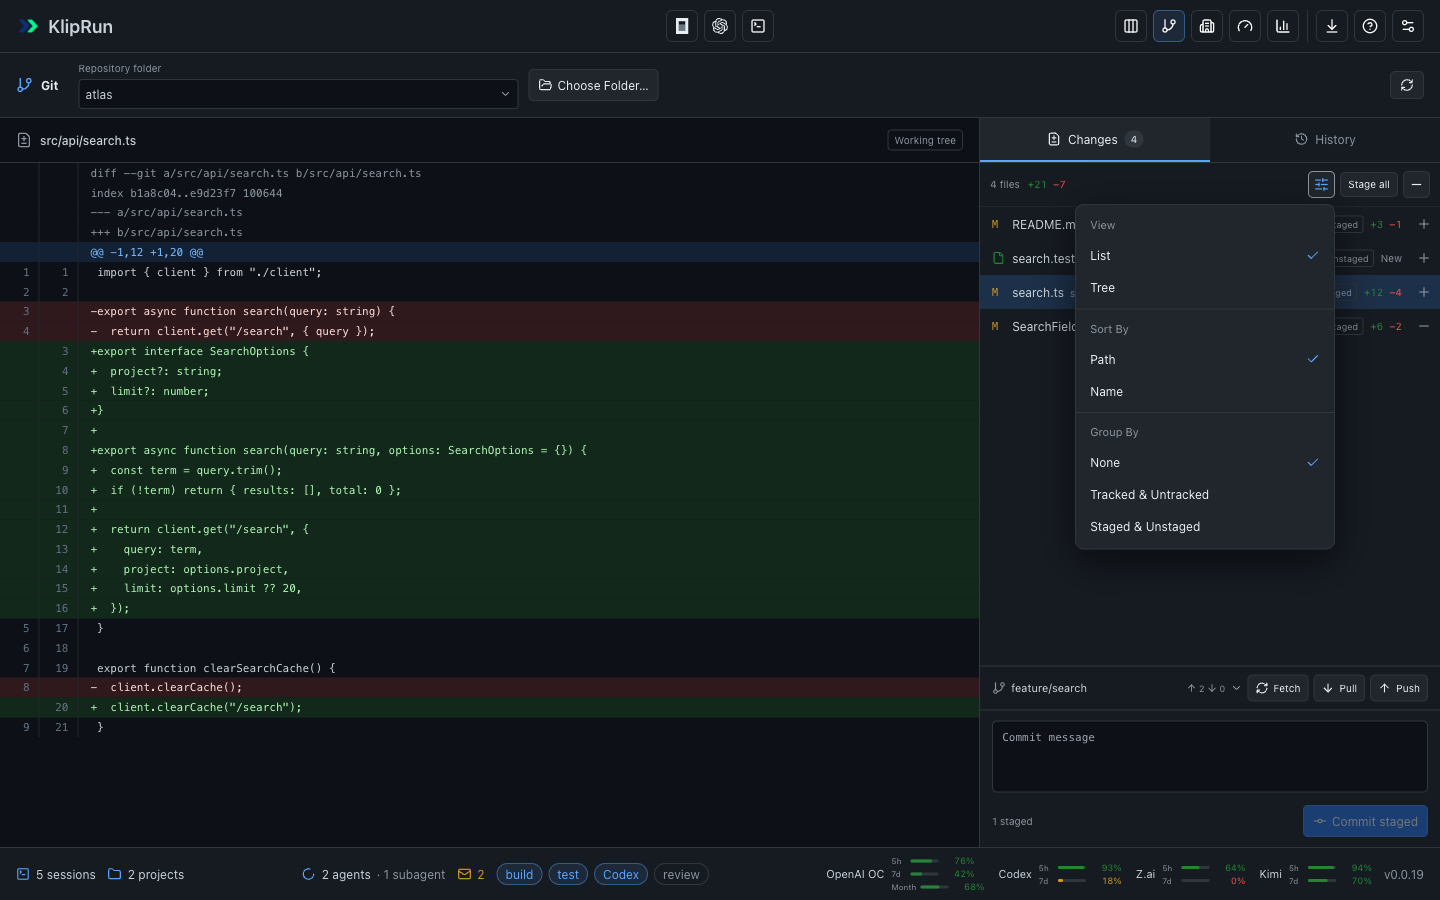
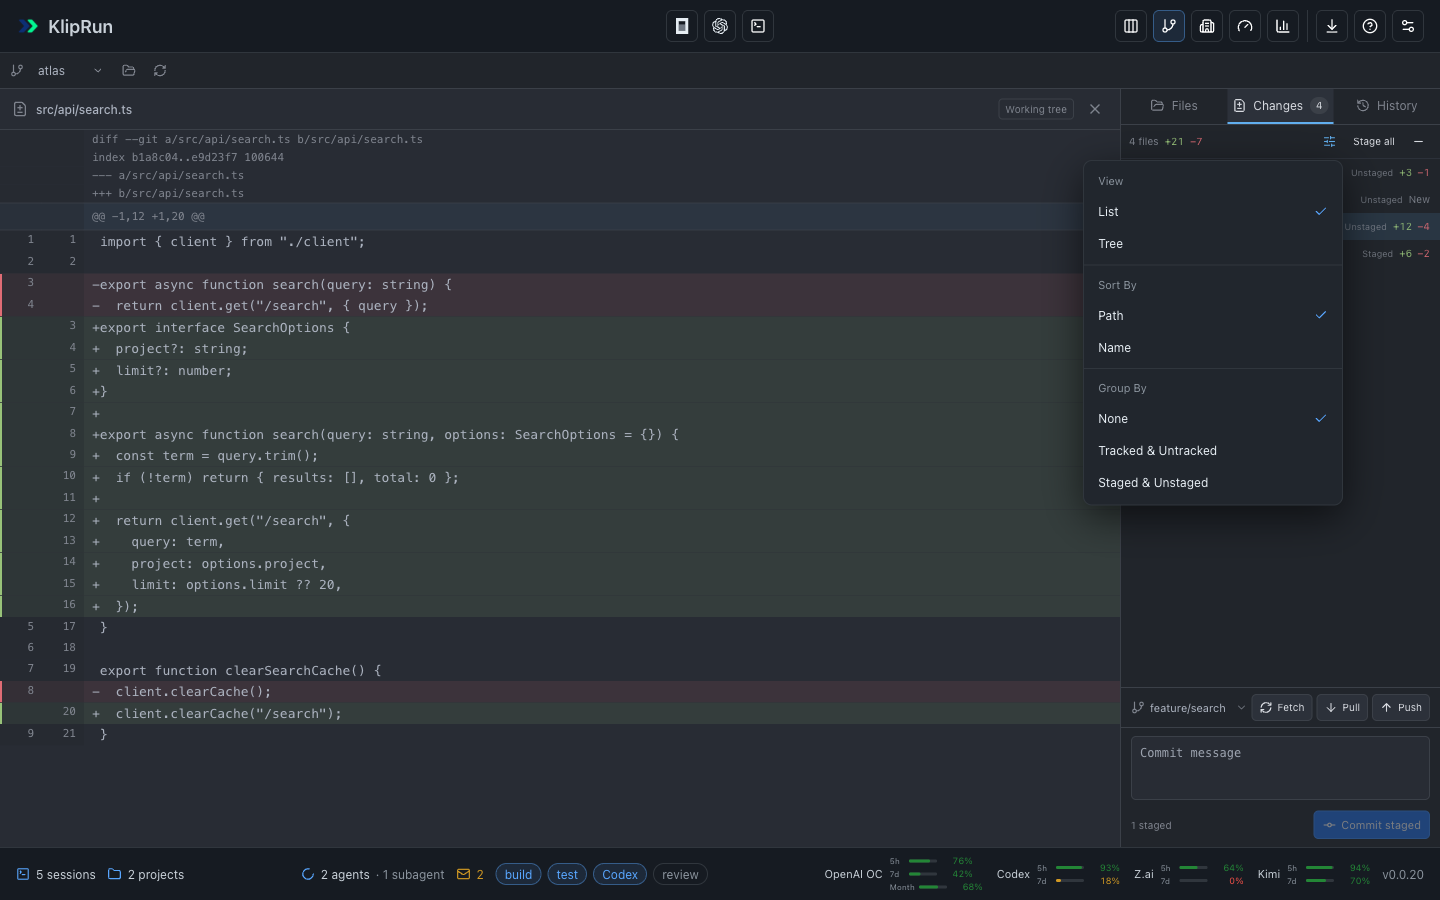
release/0.0.20: Подготовить выпуск и обновить скриншоты

diff --git a/docs/screenshots/capture-files.js b/docs/screenshots/capture-files.js
@@ -1,0 +1,33 @@
+// Playwright callback: pass parsed mock-api.json as the third argument. No real file API is used.
+async (page, directory = "docs/screenshots", fixture) => {
+  const base = "http://127.0.0.1:18796", root = fixture.git.status.root;
+  const external = [];
+  const watch = request => { if (!request.url().startsWith(`${base}/`)) external.push(request.url()); };
+  const list = route => route.fulfill({ json: { root, files: Object.keys(fixture.git.text_files), truncated: false } });
+  const read = route => {
+    const path = decodeURIComponent(route.request().url().match(/[?&]path=([^&]*)/)[1].replace(/\+/g, " "));
+    return route.fulfill({ json: { root, path, content: fixture.git.text_files[path], revision: "fixture" } });
+  };
+  page.on("request", watch);
+  await page.route(`${base}/api/git/files?*`, list);
+  await page.route(`${base}/api/git/file?*`, read);
+  try {
+    await page.setViewportSize({ width: 1440, height: 900 }); await page.goto(`${base}/git`);
+    await page.evaluate(() => localStorage.removeItem("kliprun.git.sidebar-width")); await page.reload();
+    await page.getByRole("button", { name: "Repository", exact: true }).click();
+    await page.getByRole("option").filter({ hasText: root }).click();
+    await page.getByRole("tab", { name: "Files", exact: true }).click();
+    for (const path of ["README.md", "queries/projects.sql"]) await page.getByRole("treeitem", { name: `Open file ${path}`, exact: true }).dblclick();
+    await page.getByRole("treeitem", { name: "Open file src/search.py", exact: true }).click();
+    await page.getByRole("textbox", { name: "Edit src/search.py", exact: true }).waitFor();
+    await page.screenshot({ path: `${directory}/git-files.png`, animations: "disabled" });
+    await page.getByRole("tab", { name: "README.md", exact: true }).click();
+    await page.locator('button[aria-label="Preview Markdown"]:visible').click();
+    await page.getByRole("heading", { name: "Atlas search", exact: true }).waitFor();
+    await page.screenshot({ path: `${directory}/git-markdown.png`, animations: "disabled" });
+    if (external.length) throw new Error("Capture made external requests");
+    return { captures: ["git-files.png", "git-markdown.png"], externalRequests: 0 };
+  } finally {
+    page.off("request", watch); await page.unroute(`${base}/api/git/files?*`, list); await page.unroute(`${base}/api/git/file?*`, read);
+  }
+}

diff --git a/docs/screenshots/capture-all.js b/docs/screenshots/capture-all.js
@@ -10,7 +10,7 @@ async (page, directory = "docs/screenshots") => {
     await page.goto(`${base}${path}`);
     if (!path.startsWith("/__demo/")) {
       await page.locator('[data-testid="version"]').waitFor();
-      if ((await page.locator('[data-testid="version"]').innerText()) !== "v0.0.19") throw new Error("Build the 0.0.19 client before capturing.");
+      if ((await page.locator('[data-testid="version"]').innerText()) !== "v0.0.20") throw new Error("Build the 0.0.20 client before capturing.");
     }
   }
   async function sidebar(expanded) {

diff --git a/engine/src/client/src/__tests__/repositoryFileEditor.test.tsx b/engine/src/client/src/__tests__/repositoryFileEditor.test.tsx
@@ -88,4 +88,3 @@ test("editor shows file breadcrumbs and current language, encoding, indentation 
   expect(html).toContain('Spaces: 2');
   expect(html).toContain('SQL');
 });
-

diff --git a/docs/screenshots/README.md b/docs/screenshots/README.md
@@ -1,6 +1,6 @@
 # Demo screenshots
 
-All fourteen images were captured from **KlipRun Desktop 0.0.19** on **2026-10-17**. Session IDs, titles, project paths, models, priority flags, Git metadata, quotas, and usage totals come only from [`mock-api.json`](mock-api.json). The preview fixes the clock to the fixture’s `board.generated_at` (2026-10-14), supplies a stub desktop bridge, and disables Office motion. No live engine, user session store, credentials, quota API, or agent process is used.
+All sixteen images were captured from **KlipRun Desktop 0.0.20** on **2026-10-17**. Session IDs, titles, project paths, models, priority flags, Git metadata, quotas, and usage totals come only from [`mock-api.json`](mock-api.json). The preview fixes the clock to the fixture’s `board.generated_at` (2026-10-14), supplies a stub desktop bridge, and disables Office motion. No live engine, user session store, credentials, quota API, or agent process is used.
 
 | File | Size | Example shown |
 | --- | --- | --- |
@@ -12,6 +12,8 @@ All fourteen images were captured from **KlipRun Desktop 0.0.19** on **2026-10-1
 | [`statistics.png`](statistics.png) | 1600 × 1600 | Last 30 days, latest sessions, Daily token activity, and composition in UTC |
 | [`statistics-weekly.png`](statistics-weekly.png) | 1600 × 1600 | Weekly token activity for the same fictional dataset |
 | [`usage.png`](usage.png) | 1600 × 900 | Compact provider rows with colored status dots and white limit/reset labels |
+| [`git-files.png`](git-files.png) | 1440 × 900 | Repository tree on the right, preview/permanent file tabs and highlighted Python source |
+| [`git-markdown.png`](git-markdown.png) | 1440 × 900 | Rendered Markdown with source/preview toggle and per-file editor status |
 | [`git-changes.png`](git-changes.png) | 1440 × 900 | Fictional changes in List/Path/None mode, staging controls, and a line-numbered diff |
 | [`git-repository.png`](git-repository.png) | 1440 × 900 | Searchable repository dropdown with fictional project names and paths |
 | [`git-changes-settings.png`](git-changes-settings.png) | 1440 × 900 | Changes settings menu with List/Tree, Path/Name, and three grouping choices |
@@ -35,8 +37,14 @@ Build the client with `cd engine/src/client && bun run build`, then start `bun d
 
 `desktop-terminal.png` combines the current `kanban-details.png` capture with [`terminal-demo.html`](terminal-demo.html), available at `/__demo/terminal-demo.html`. The terminal transcript and tabs are static fictional content with white tab labels; this composition never launches an agent or captures a real terminal.
 
-The `git` fixture supplies repository roots, status, history, commit files, and diff patches for `/api/git/*`. The preview rejects Git actions and never invokes Git or accesses working repositories. [`capture-git.js`](capture-git.js) captures Changes, its display-settings menu, the branch popover, History, and shortcuts. The `git.status.branches` fixture includes only fictional author, date, and last-commit metadata. [`../../scripts/git-workspace.test.js`](../../scripts/git-workspace.test.js) covers direct commit submission, message-field scrolling, the UI workflow, and normal/small layouts with in-memory responses based on the same fixture; [`../../scripts/git-panel-resize.test.js`](../../scripts/git-panel-resize.test.js) covers panel resizing. [`../../scripts/git-session-follow.test.js`](../../scripts/git-session-follow.test.js) covers session-driven repository selection, sessions without Git, per-repository drafts, nested folders, and switching sessions during a commit. [`../../scripts/git-changes-settings.test.js`](../../scripts/git-changes-settings.test.js) covers display settings, partial staging, saved options, keyboard navigation, and popup placement. These tests use fixture responses without modifying repositories.
+The `git` fixture supplies repository roots, status, history, commit files, source text, and diff patches for `/api/git/*`. The preview rejects Git actions and never invokes Git or accesses working repositories. [`capture-git.js`](capture-git.js) captures Changes, its display-settings menu, the branch popover, History, and shortcuts. The `git.status.branches` fixture includes only fictional author, date, and last-commit metadata. [`../../scripts/git-workspace.test.js`](../../scripts/git-workspace.test.js) covers direct commit submission, message-field scrolling, the UI workflow, and normal/small layouts with in-memory responses based on the same fixture; [`../../scripts/git-panel-resize.test.js`](../../scripts/git-panel-resize.test.js) covers panel resizing. [`../../scripts/git-session-follow.test.js`](../../scripts/git-session-follow.test.js) covers session-driven repository selection, sessions without Git, per-repository drafts, nested folders, and switching sessions during a commit. [`../../scripts/git-changes-settings.test.js`](../../scripts/git-changes-settings.test.js) covers display settings, partial staging, saved options, keyboard navigation, and popup placement. These tests use fixture responses without modifying repositories.
+
+`git.text_files` supplies fictional Python, SQL, Markdown, and TypeScript source for the Files tab. The preview serves `/api/git/files` and reads from `/api/git/file`; save requests are rejected. [`../../scripts/git-files.test.js`](../../scripts/git-files.test.js) is a Playwright callback `(page, fixture)` taking the parsed `mock-api.json`. It intercepts file requests and keeps simulated saves in memory, checking the right-hand project tree and its filter/keyboard controls, preview and permanent tabs, CodeMirror indentation/search/undo across tabs, save/close/cancel, Markdown preview, save conflicts, delayed responses, inactive drafts on repository changes, and normal/small windows.
 
 The toolbar follows **Kanban → Git → Office → Usage → Statistics**, with a separate **Check for Updates → Keyboard shortcuts → Settings** utility group. Shortcuts use Control+1 Kanban, Control+2 Git, Control+3 Office, Control+4 Usage, and Control+5 Statistics. Both capture callbacks made **zero external requests**.
 
 The Office image now shows the Shared loft floor plan with the same fictional sessions. [`../../scripts/office.test.js`](../../scripts/office.test.js) checks all three floor plans, persistent settings, new and removed helpers, observed-state transitions and idle grace, selection, active-terminal highlighting, usage, zoom, and reduced motion in normal and constrained web-view sizes.
+
+[`../../scripts/git-review-layout.test.js`](../../scripts/git-review-layout.test.js) checks the compact repository toolbar, staging controls before filenames, loaded-commit search, keyboard navigation, automatic first-file diffs, persistent close, and small layouts using fixture data without Git writes.
+
+[`capture-files.js`](capture-files.js) takes `(page, outputDirectory, fixture)` and captures Files and Markdown from `git.text_files` in `mock-api.json`, with all file reads intercepted and no writes. All sixteen images were refreshed for 0.0.20.

diff --git a/README.md b/README.md
@@ -1,10 +1,12 @@
 # KlipRun Desktop
 
-A macOS app for OpenCode and Codex sessions: a Kanban board, embedded terminals, Git diffs, searchable session history, and usage statistics.
+A macOS app for OpenCode and Codex sessions: a Kanban board, embedded terminals, repository file editing and Git diffs, searchable session history, and usage statistics.
 
 ## Screenshots
 
 ![Kanban, Recent Sessions, and session details](docs/screenshots/recent-sessions.png)
+
+![Repository files and code editor](docs/screenshots/git-files.png)
 
 ![Git changes and diff](docs/screenshots/git-changes.png)
 
@@ -16,7 +18,7 @@ A macOS app for OpenCode and Codex sessions: a Kanban board, embedded terminals,
 
 Requires **Apple Silicon and macOS 13+**.
 
-1. Download `KlipRun-0.0.19-macos-arm64.zip` from the [latest release](https://github.com/klipbn/kliprun_desktop/releases/latest).
+1. Download `KlipRun-0.0.20-macos-arm64.zip` from the [latest release](https://github.com/klipbn/kliprun_desktop/releases/latest).
 2. Unzip and move `KlipRun.app` to **Applications**. Quit KlipRun before replacing an older version.
 3. Open the app. If macOS blocks it, use **System Settings → Privacy & Security → Open Anyway**. The build is locally signed and not notarized.
 
@@ -24,7 +26,15 @@ Install and sign in to [OpenCode](https://opencode.ai/) or [Codex CLI](https://g
 
 Starting with 0.0.18, use **Check for Updates → Download Update → Install and Restart**. KlipRun verifies and prepares the update, closes the Updates panel, replaces its current copy, and reopens with **What's New**. No manual ZIP extraction or copying is needed for subsequent updates. If **Install and Restart** does nothing in 0.0.16 or 0.0.17, follow the installation steps above once, quitting KlipRun before replacing it. Upgrading from 0.0.15 or earlier also requires these steps once. The app must be in a writable folder. Restarting asks before ending agents running in embedded terminals; preferences and session history are preserved.
 
-The **Git** repository menu supports search by name or path and keyboard selection. **Statistics → Latest sessions** shows the latest 5, 10, 20, or 50 sessions within the selected period and filters, including subagents, token breakdowns, observed time, calls, and recorded costs. The chosen count is remembered. **Cached input** means tokens read from the cache; it is separate from uncached input and cache writes, so totals do not double-count tokens.
+The **Git** repository menu supports search by name or path and keyboard selection. The resizable project panel sits on the right; **Files** is before **Changes**. Its tree shows tracked and nonignored new files from the selected repository, with file-type icons, Git status colors, a filename filter, and keyboard navigation.
+
+The compact repository control shows its name, with the full path on hover; adjacent folder and refresh icons keep the toolbar short. **Changes** uses dense file rows with staging toggles, status colors and change counts. **Commit staged** continues to commit only staged files. **History** searches the loaded commits by message, author, hash or ref; use the arrow keys to move between commits. Selecting a commit opens its first file diff, while the changed-file list lets you choose another. Closing that diff keeps it closed across refreshes.
+
+File editing follows [Zed's preview-tab conventions](https://zed.dev/docs/reference/all-settings#preview-tabs): a single click opens a temporary tab; double-clicking or editing keeps it open. Open files retain their own drafts and undo history while switching tabs. Close a tab with **×**; unsaved files offer **Save and close**, **Discard changes**, or **Keep editing**. Changing repositories checks inactive dirty tabs too. Drafts survive switching to another KlipRun view within the current app session; save before quitting.
+
+The editor includes Python, SQL, Markdown, JavaScript/TypeScript, and JSON highlighting; line numbers, folding, active-line and matching-bracket highlights; **Tab / Shift+Tab** indentation, automatic indentation, undo/redo, and **Command+F** search. Breadcrumbs show the path, and the status bar shows the cursor position and language. The eye button toggles rendered Markdown. **Save / Command+S** writes the current file and briefly shows **Saved**. Files are never executed. The editor accepts existing UTF-8 files up to 512 KiB and checks their revision before saving to detect changes on disk. The Git workspace uses a One Dark palette under the Default app theme and follows any explicitly selected palette.
+
+**Statistics → Latest sessions** shows the latest 5, 10, 20, or 50 sessions within the selected period and filters, including subagents, token breakdowns, observed time, calls, and recorded costs. The chosen count is remembered. **Cached input** means tokens read from the cache; it is separate from uncached input and cache writes, so totals do not double-count tokens.
 
 **Office** offers three saved floor plans: **Shared loft**, **Team rooms**, and **Long studio**. Coworkers walk between working, meeting, and lounge areas as session states change. Larger team leads check on their smaller subagents; labels and team connections show which sessions belong together. Use **Office settings** to toggle names, connections, and movement; app and system reduced motion take priority. **Fit**, zoom, and dragging keep the floor accessible beside the terminal, while **Find a task** selects any coworker by title. The trophy button opens the token-usage leaderboard.
 

diff --git a/CHANGELOG.md b/CHANGELOG.md
@@ -4,6 +4,24 @@ Notable changes to KlipRun Desktop are recorded here. Versions use [Semantic Ver
 
 ## [Unreleased]
 
+## [0.0.20] - 2026-10-17
+
+### Added
+
+- **Git → Files** browses the selected repository with file-type icons, Git status colors, filtering and keyboard navigation. Single-click opens a temporary preview tab; double-clicking or editing keeps it open. Each tab retains its draft, cursor and undo history while switching files.
+- Edit Python, SQL, Markdown, JavaScript/TypeScript and JSON with syntax highlighting, line numbers, folding, indentation, matching brackets, undo/redo and search. Toggle rendered Markdown with the eye button; save with **Save / Command+S** and a brief confirmation. Files are never executed.
+- Close files and diffs from their headers. Unsaved files offer **Save and close**, **Discard changes** or **Keep editing**; repository switches check inactive drafts too. Save existing UTF-8 files up to 512 KiB with revision checks, atomic replacement and preserved line endings. Keep access inside the selected repository and reject symlinks, Git metadata and binary content.
+
+### Changed
+
+- Give the Git workspace a Zed-style layout with the project panel on the right, a compact repository picker, folder/refresh icons, breadcrumbs and cursor status. Use One Dark colors under the Default app theme and honor other selected palettes.
+- Compact **Changes** rows with staging toggles before filenames, status colors and softer unified diffs. Add visible hover feedback to View/Sort By/Group By options, folders and files.
+- Add searchable loaded-commit metadata and keyboard navigation to **History**. Selecting a commit opens its first file diff; the commit message is collapsible, and closing a diff keeps it closed across refreshes.
+
+### Documentation
+
+- Update the file-editing guide and refresh sixteen fixture-only screenshots, including the editor and Markdown preview. Include CodeMirror dependency notices in the app bundle.
+
 ## [0.0.19] - 2026-10-17
 
 ### Added
